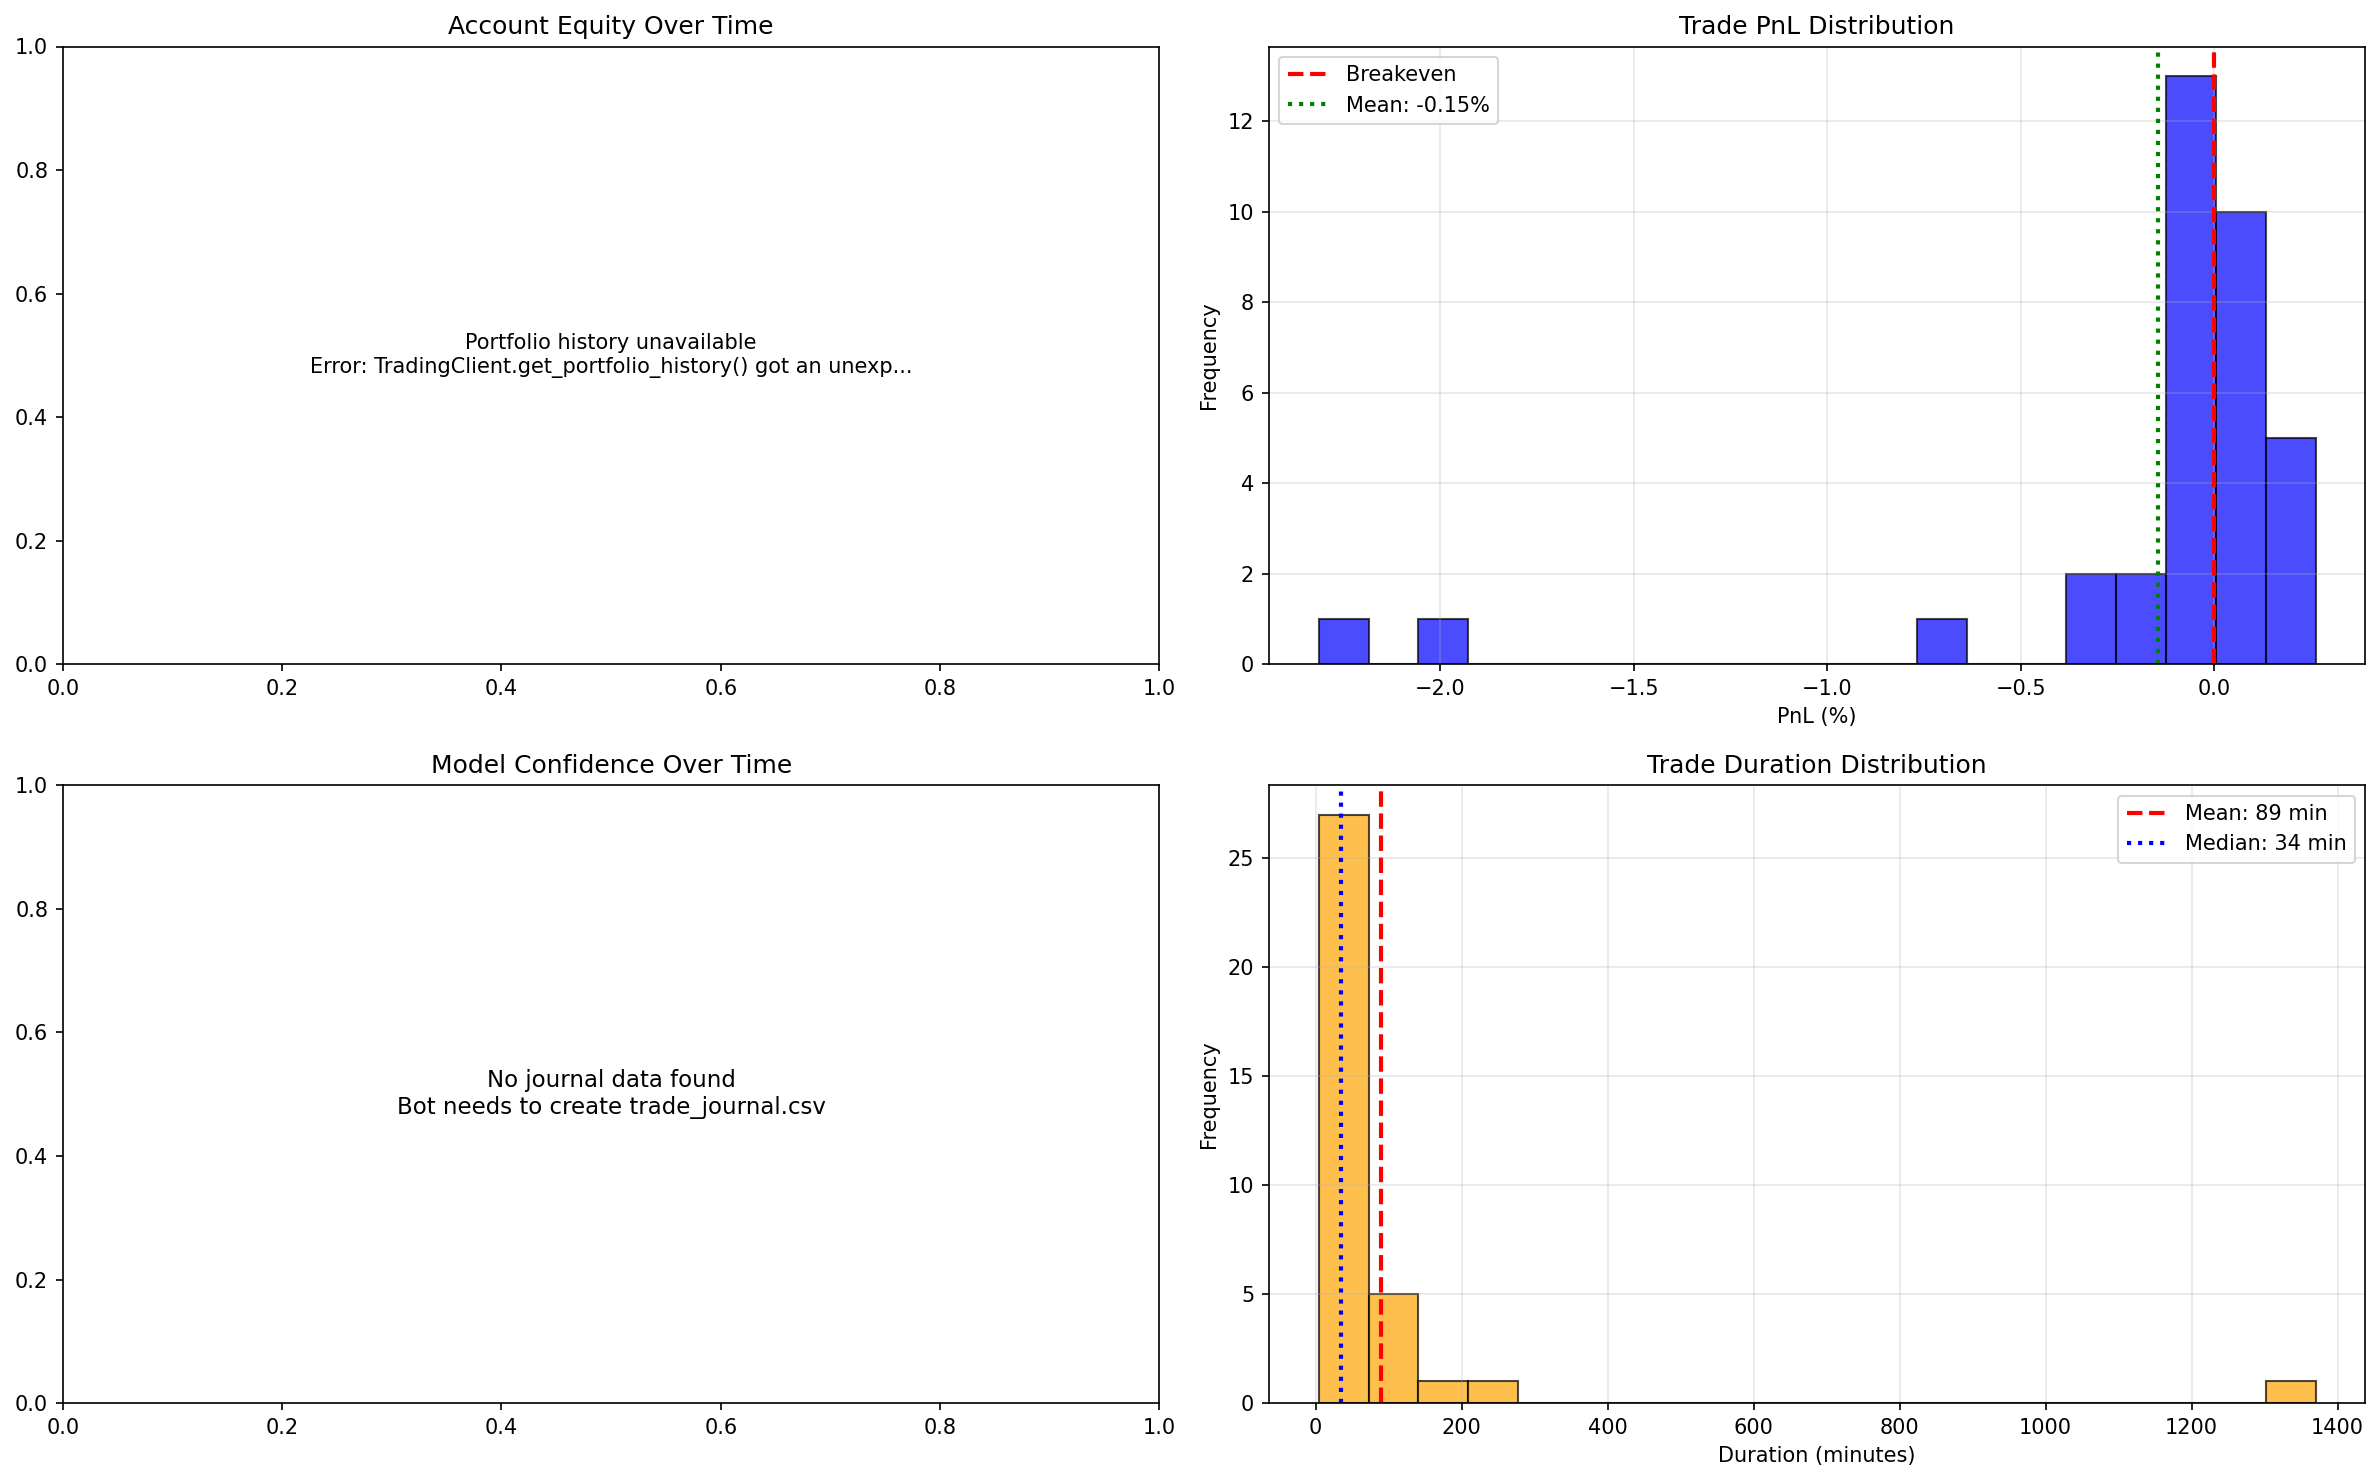
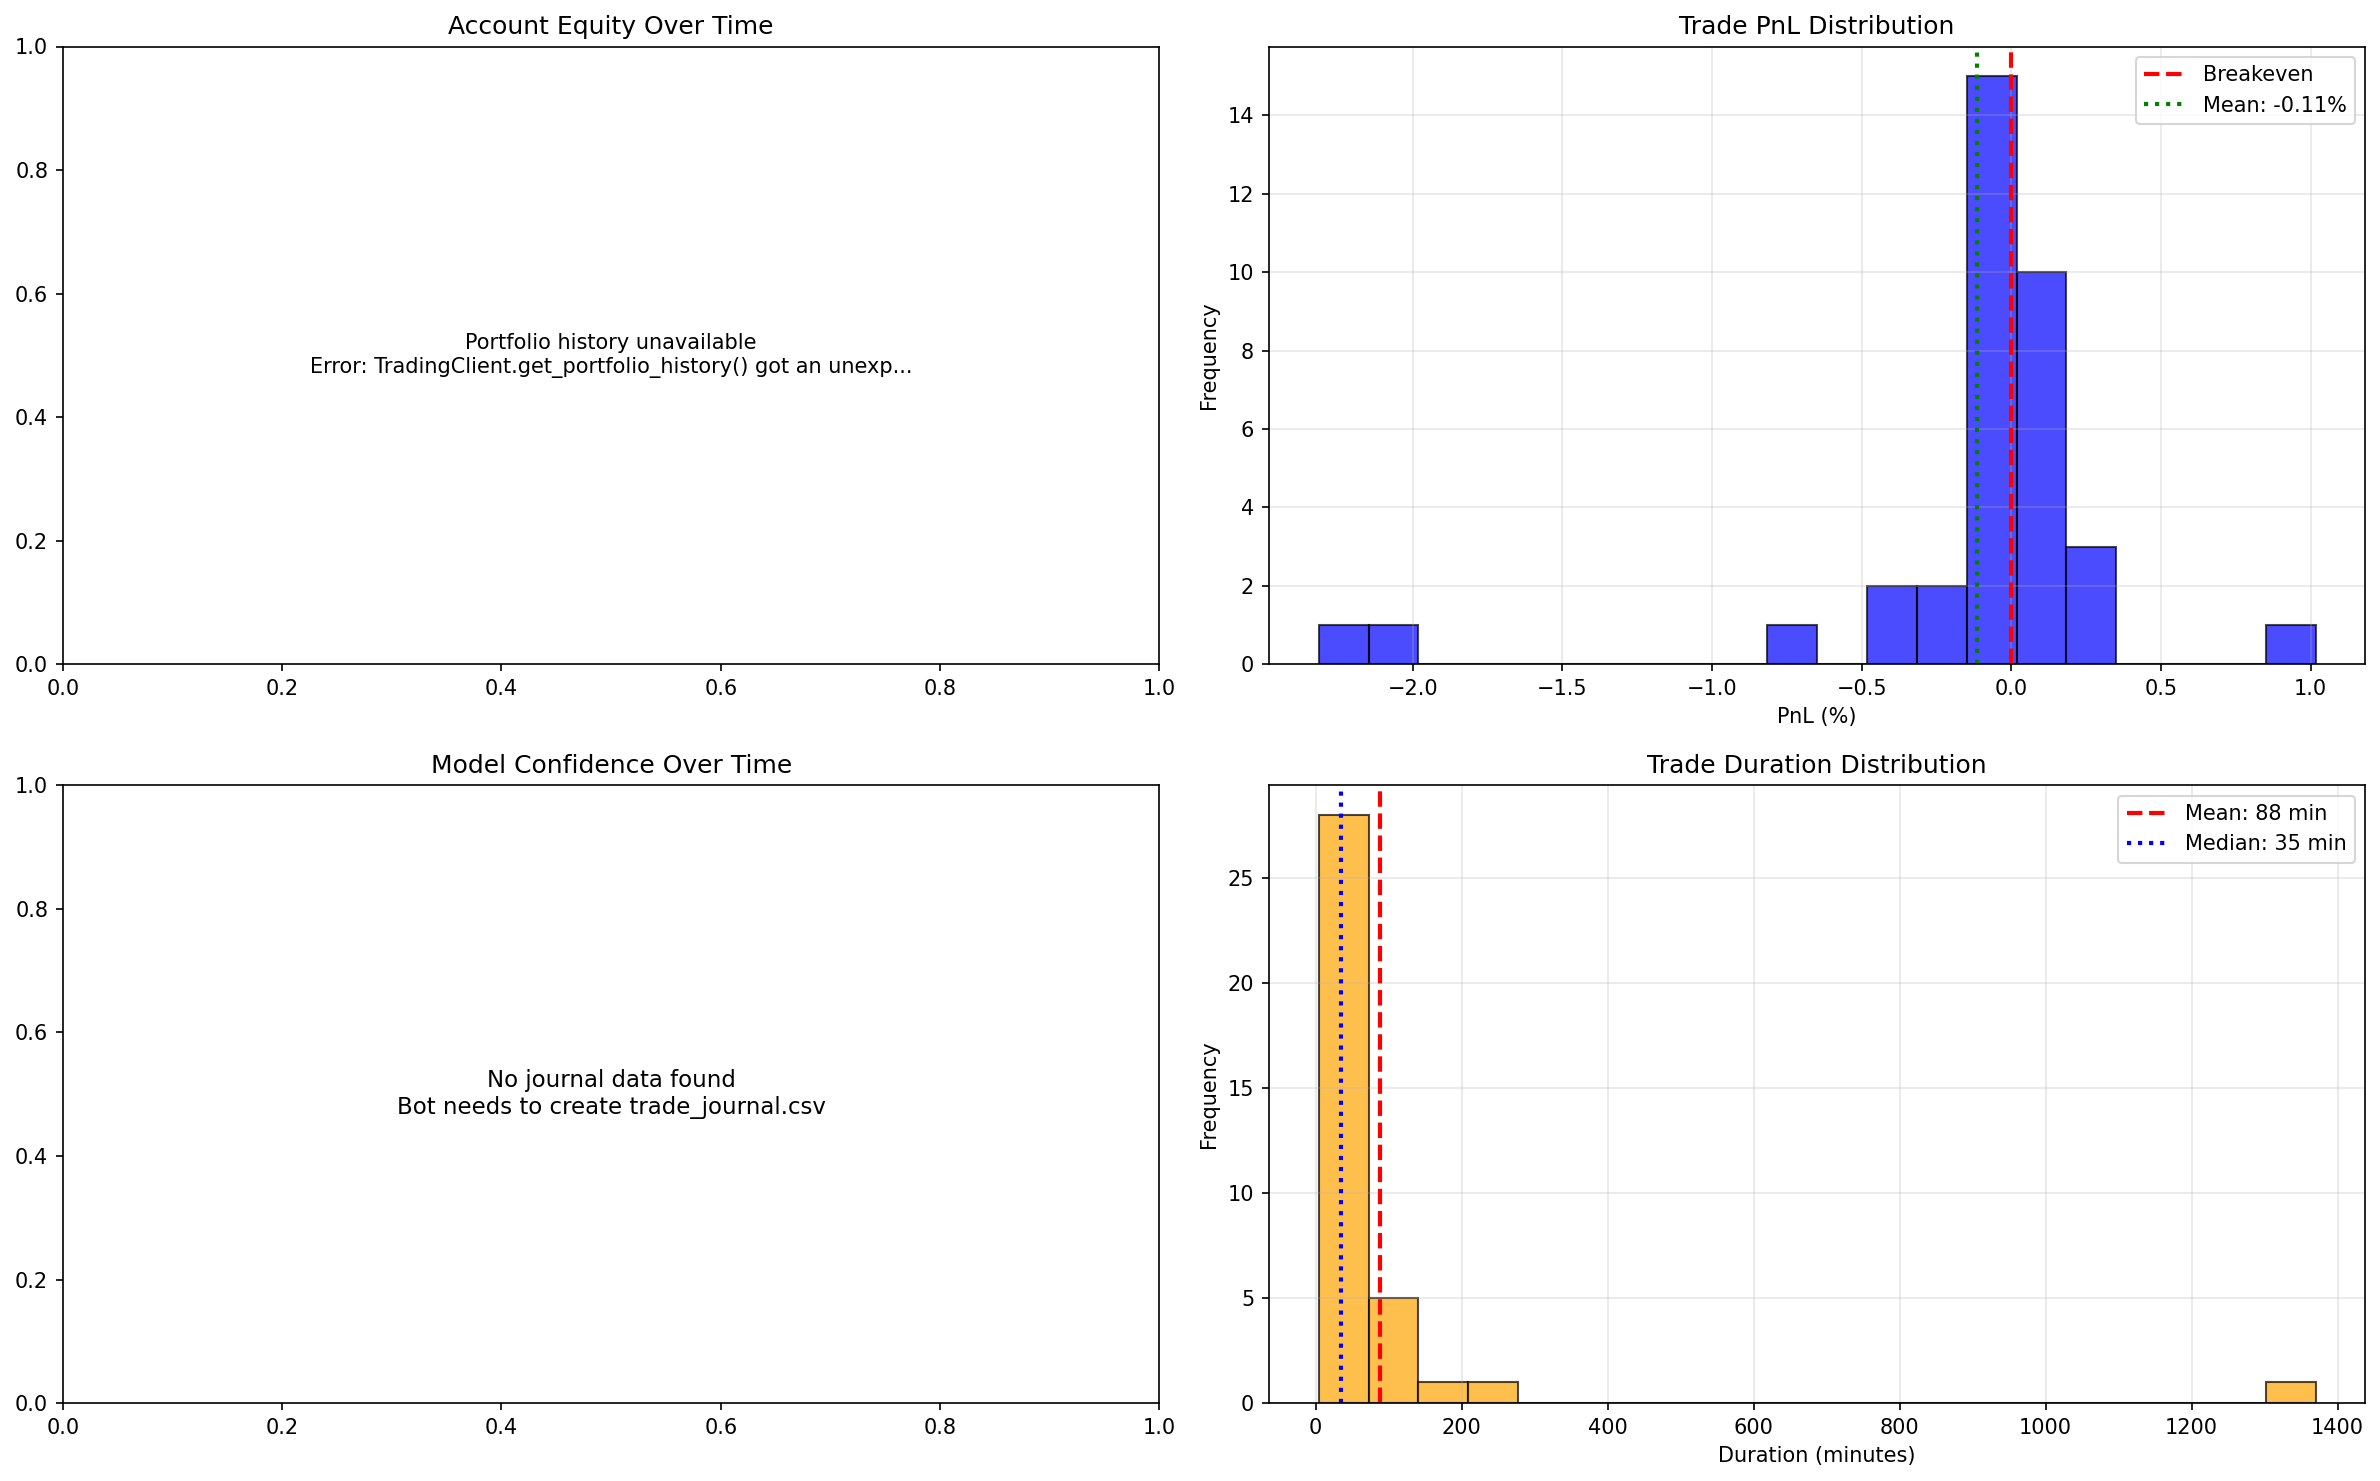
backtesting plots

diff --git a/experiments/GroupExp1/GroupExp1.md b/experiments/GroupExp1/GroupExp1.md
@@ -173,7 +173,7 @@ Gespeicherte Dateien:
 
 ### Split & Shuffle Flowchart
 
-![Step 04 Flowchart](images/step04_final_flowchart.png)
+![Step 04 Flowchart](images/04_final_flowchart.png)
 
 ### Split & Shuffle Diagram (ASCII)
 
